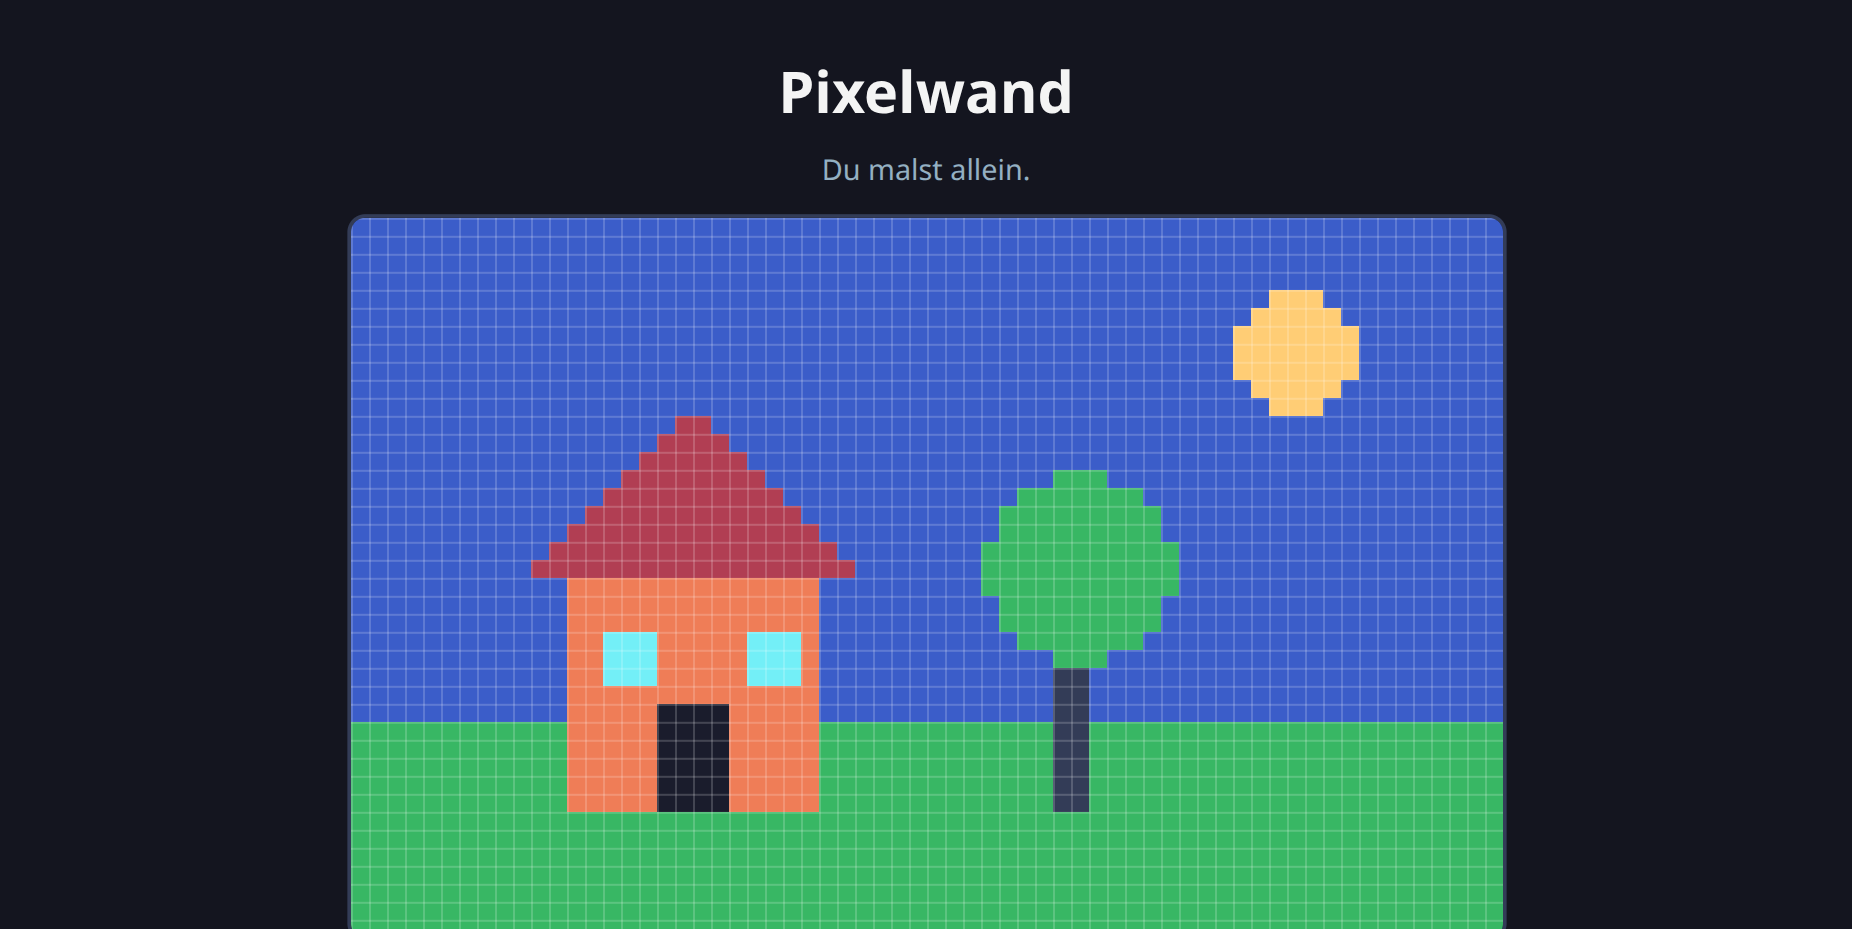
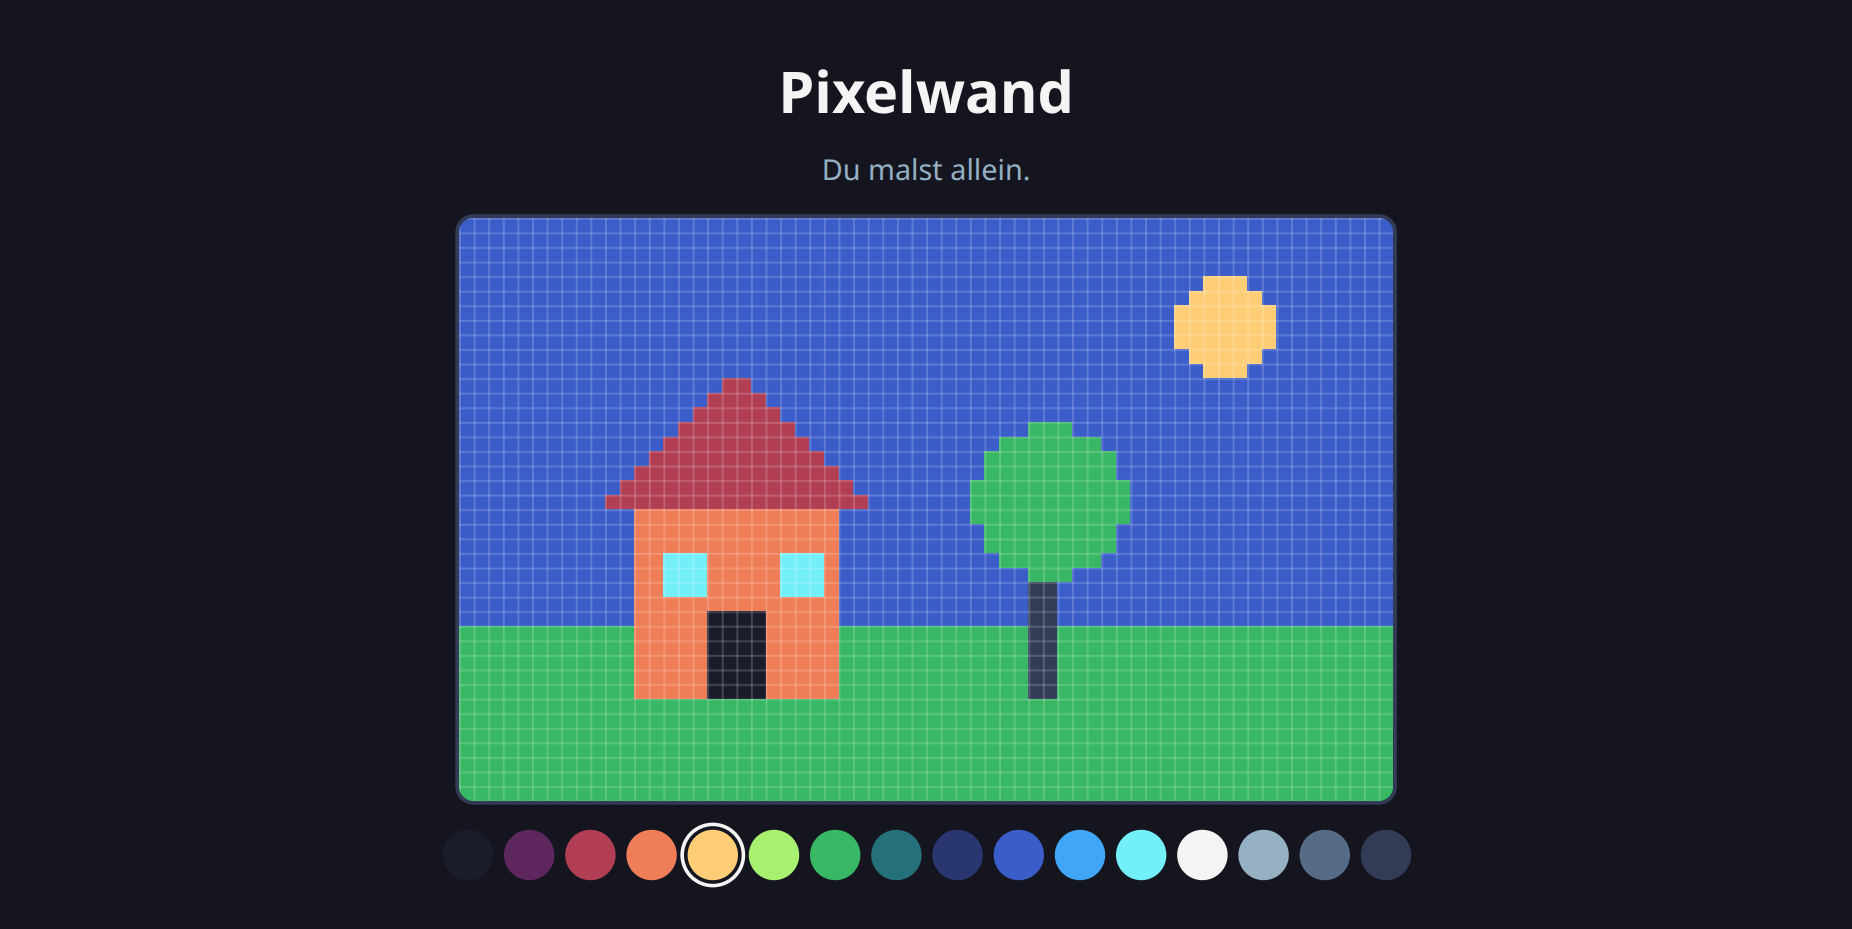
Pixelwand: the wall fits any window size, the screenshot shows it whole

diff --git a/src/content/pixelwand/stufen/index3.html b/src/content/pixelwand/stufen/index3.html
@@ -8,16 +8,19 @@
            display: flex; flex-direction: column; align-items: center; background: #14151f; color: #f4f4f4; }
     h1 { margin: 0.2em 0 0.3em; }
     #people { margin: 0 0 1em; color: #94b0c2; }
-    #grid { position: relative; border-radius: 8px; overflow: hidden; box-shadow: 0 0 0 2px #333c57; }
-    #wall { display: block; width: 640px; height: 400px; image-rendering: pixelated; cursor: crosshair;
+    /* So breit, wie das Fenster erlaubt, höchstens 960 Pixel, und so schmal, dass die Wand
+       samt Überschrift und Farben in die Höhe passt (das Bild ist 1,6-mal so breit wie hoch). */
+    #grid { position: relative; width: min(100%, 960px, (100vh - 12em) * 1.6);
+            border-radius: 8px; overflow: hidden; box-shadow: 0 0 0 2px #333c57; }
+    #wall { display: block; width: 100%; height: auto; image-rendering: pixelated; cursor: crosshair;
             touch-action: none; }
-    /* Feine Linien über dem Bild, alle 10 Bildschirmpixel: so sieht man jeden Pixel der Wand.
+    /* Feine Linien über dem Bild, 64 Spalten und 40 Zeilen: so sieht man jeden Pixel der Wand.
        pointer-events: none lässt die Maus zum canvas durch. */
     #grid::after { content: ''; position: absolute; inset: 0; pointer-events: none;
                    background-image: linear-gradient(to right, rgba(255, 255, 255, 0.18) 1px, transparent 1px),
                                      linear-gradient(to bottom, rgba(255, 255, 255, 0.18) 1px, transparent 1px);
-                   background-size: 10px 10px; }
-    #colors { display: flex; flex-wrap: wrap; gap: 6px; margin-top: 1em; }
+                   background-size: calc(100% / 64) calc(100% / 40); }
+    #colors { display: flex; flex-wrap: wrap; justify-content: center; gap: 6px; margin-top: 1em; }
     #colors button { width: 28px; height: 28px; border: 0; border-radius: 50%; cursor: pointer; }
     #colors button.active { box-shadow: 0 0 0 2px #14151f, 0 0 0 4px #f4f4f4; }
   </style>

diff --git a/src/content/pixelwand/pixelwand.md b/src/content/pixelwand/pixelwand.md
@@ -336,7 +336,7 @@ Rackup::Server.start(app: App, Host: '0.0.0.0', Port: 8000, server: 'puma', Sile
 - Jede Nachricht hat einen `type`: `picture` für das ganze Bild, `pixel` für einen einzelnen Pixel, `people` für die Zahl der Verbundenen.
 - **Jeder kann alles schicken**, nicht nur deine Webseite. Darum glaubt der Server keiner Nachricht: Kein JSON, keine ganzen Zahlen, ein Pixel außerhalb des Bildes, eine Farbe über 15? `next` überspringt die Nachricht. Ein Server, der fremden Eingaben traut, ist eine Einladung, ihn kaputt zu machen.
 
-Die neue `index.html` zeichnet das Bild in ein `<canvas>`, ein Element, in das JavaScript zeichnen kann. Es ist nur 64 × 40 Pixel groß, CSS zieht es auf das Zehnfache und legt ein feines Gitter darüber, damit man jeden Pixel der Wand sieht:
+Die neue `index.html` zeichnet das Bild in ein `<canvas>`, ein Element, in das JavaScript zeichnen kann. Es ist nur 64 × 40 Pixel groß. CSS zieht es so groß, wie das Fenster erlaubt, und legt ein feines Gitter darüber, damit man jeden Pixel der Wand sieht:
 
 ```html_copy
 <!DOCTYPE html>
@@ -349,16 +349,19 @@ Die neue `index.html` zeichnet das Bild in ein `<canvas>`, ein Element, in das J
            display: flex; flex-direction: column; align-items: center; background: #14151f; color: #f4f4f4; }
     h1 { margin: 0.2em 0 0.3em; }
     #people { margin: 0 0 1em; color: #94b0c2; }
-    #grid { position: relative; border-radius: 8px; overflow: hidden; box-shadow: 0 0 0 2px #333c57; }
-    #wall { display: block; width: 640px; height: 400px; image-rendering: pixelated; cursor: crosshair;
+    /* So breit, wie das Fenster erlaubt, höchstens 960 Pixel, und so schmal, dass die Wand
+       samt Überschrift und Farben in die Höhe passt (das Bild ist 1,6-mal so breit wie hoch). */
+    #grid { position: relative; width: min(100%, 960px, (100vh - 12em) * 1.6);
+            border-radius: 8px; overflow: hidden; box-shadow: 0 0 0 2px #333c57; }
+    #wall { display: block; width: 100%; height: auto; image-rendering: pixelated; cursor: crosshair;
             touch-action: none; }
-    /* Feine Linien über dem Bild, alle 10 Bildschirmpixel: so sieht man jeden Pixel der Wand.
+    /* Feine Linien über dem Bild, 64 Spalten und 40 Zeilen: so sieht man jeden Pixel der Wand.
        pointer-events: none lässt die Maus zum canvas durch. */
     #grid::after { content: ''; position: absolute; inset: 0; pointer-events: none;
                    background-image: linear-gradient(to right, rgba(255, 255, 255, 0.18) 1px, transparent 1px),
                                      linear-gradient(to bottom, rgba(255, 255, 255, 0.18) 1px, transparent 1px);
-                   background-size: 10px 10px; }
-    #colors { display: flex; flex-wrap: wrap; gap: 6px; margin-top: 1em; }
+                   background-size: calc(100% / 64) calc(100% / 40); }
+    #colors { display: flex; flex-wrap: wrap; justify-content: center; gap: 6px; margin-top: 1em; }
     #colors button { width: 28px; height: 28px; border: 0; border-radius: 50%; cursor: pointer; }
     #colors button.active { box-shadow: 0 0 0 2px #14151f, 0 0 0 4px #f4f4f4; }
   </style>
@@ -491,7 +494,7 @@ tab: preview
 wait-for-text: Du malst allein
 hook: paint
 -->
-<img class='full border' src='pixelwand.webp' alt='Die Pixelwand: blauer Himmel mit gelber Sonne, eine grüne Wiese, ein Haus mit rotem Dach und ein Baum. Darüber steht »Du malst allein.«'>
+<img class='full border' src='pixelwand.webp' alt='Die Pixelwand: blauer Himmel mit gelber Sonne, eine grüne Wiese, ein Haus mit rotem Dach und ein Baum. Darüber steht »Du malst allein.«, darunter eine Reihe runder Farbknöpfe, von denen Gelb ausgewählt ist.'>
 
 _uses(json-aufbau, json-ruby, json-javascript)
 

diff --git a/CHANGELOG.md b/CHANGELOG.md
@@ -373,6 +373,9 @@ Jeder Eintrag sagt, was sich für Lernende, Lehrkräfte und Betreibende ändert.
 
 ### Geändert
 
+- Pixelwand: Die Wand passt sich der Fenstergröße an, in der Breite und in
+  der Höhe, von kleinen Vorschaufenstern bis zum Beamer (höchstens 960 Pixel
+  breit). Das Gitter wächst mit; die Farbknöpfe stehen in der Mitte.
 - Sicherheit: Befehle, die Lernende in eine Aufgabe vom Typ `command` tippen,
   laufen nicht mehr als die Person, sondern als Gast (`nobody`): Sie können
   `/workspace` lesen, aber nichts darin ändern oder löschen.
